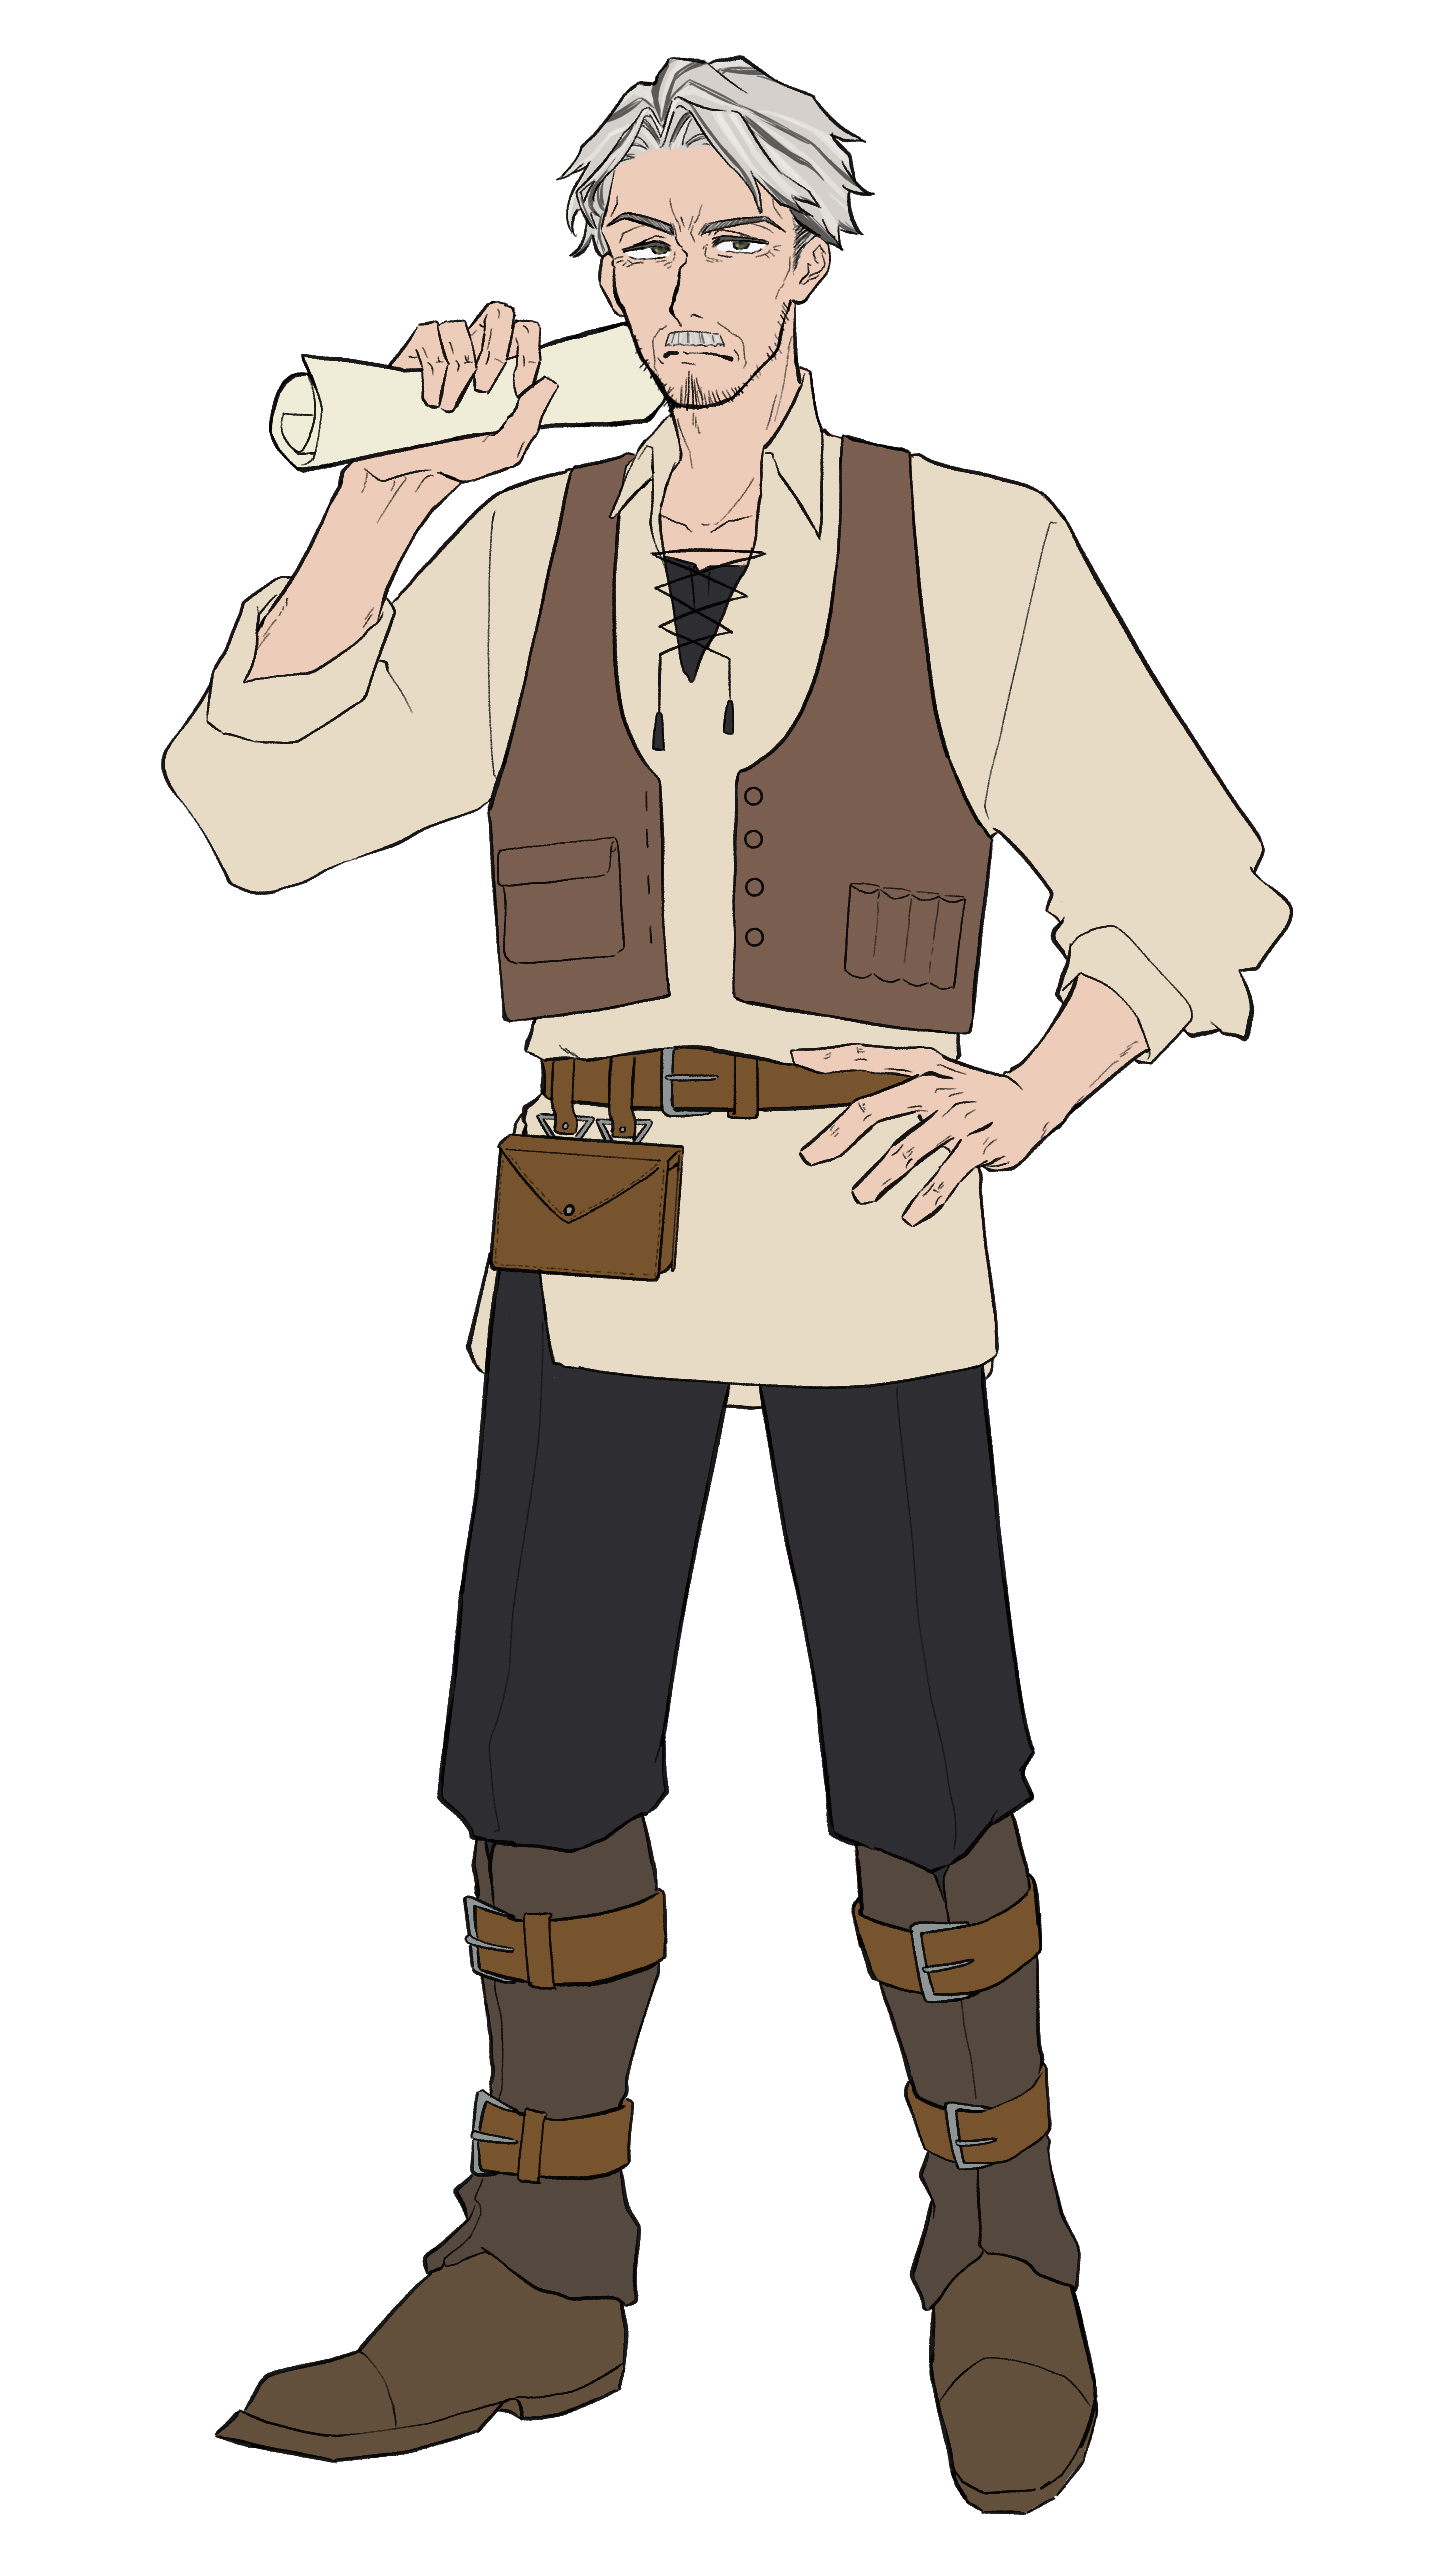
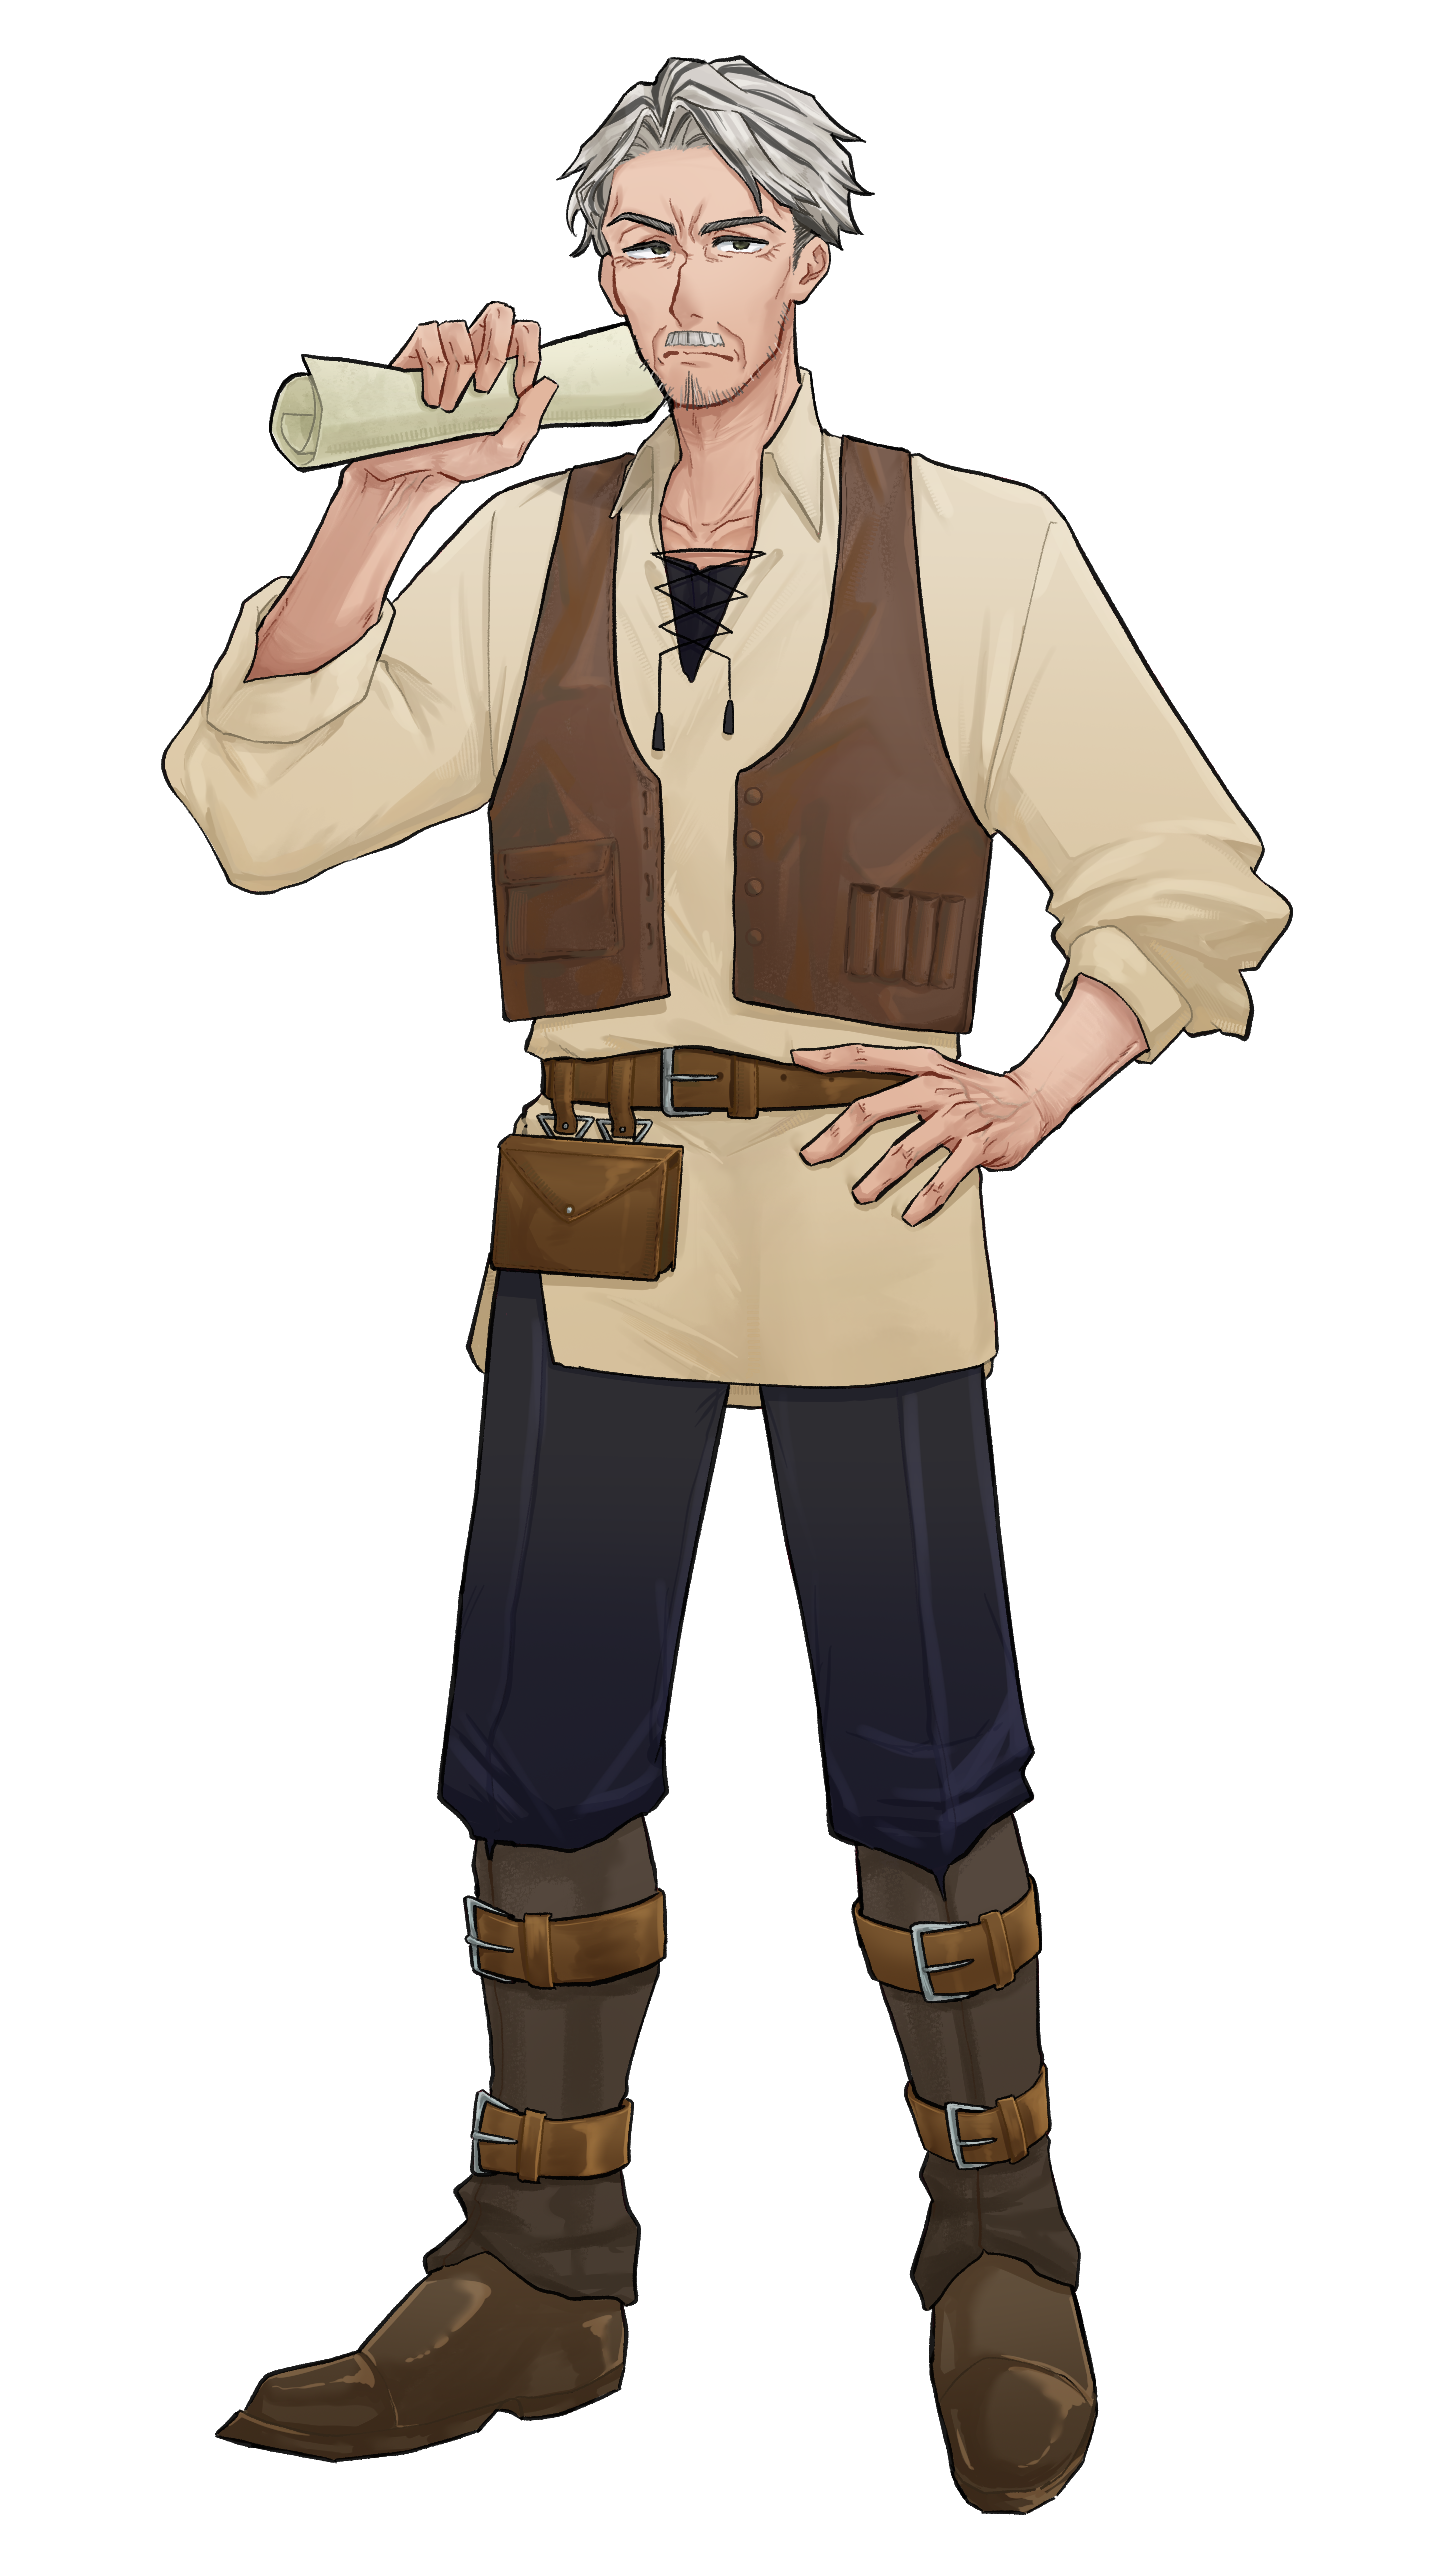
店主立ち絵更新&ED2イラスト実装

diff --git a/src/components/scenes/GameEndScene.tsx b/src/components/scenes/GameEndScene.tsx
@@ -47,15 +47,27 @@ export default function GameEndScene() {
             overflow: "hidden",
           })}
         >
-          <span
-            className={css({
-              color: "rgba(255,255,255,0.42)",
-              fontSize: "26px",
-              letterSpacing: "0.12em",
-            })}
-          >
-            END ILLUSTRATION
-          </span>
+          {isClear ? (
+            <span
+              className={css({
+                color: "rgba(255,255,255,0.42)",
+                fontSize: "26px",
+                letterSpacing: "0.12em",
+              })}
+            >
+              END ILLUSTRATION
+            </span>
+          ) : (
+            <img
+              src="/MagicPotion/ED2.png"
+              alt="返済失敗後の空き地"
+              className={css({
+                width: "100%",
+                height: "100%",
+                objectFit: "cover",
+              })}
+            />
+          )}
         </div>
 
         <div
